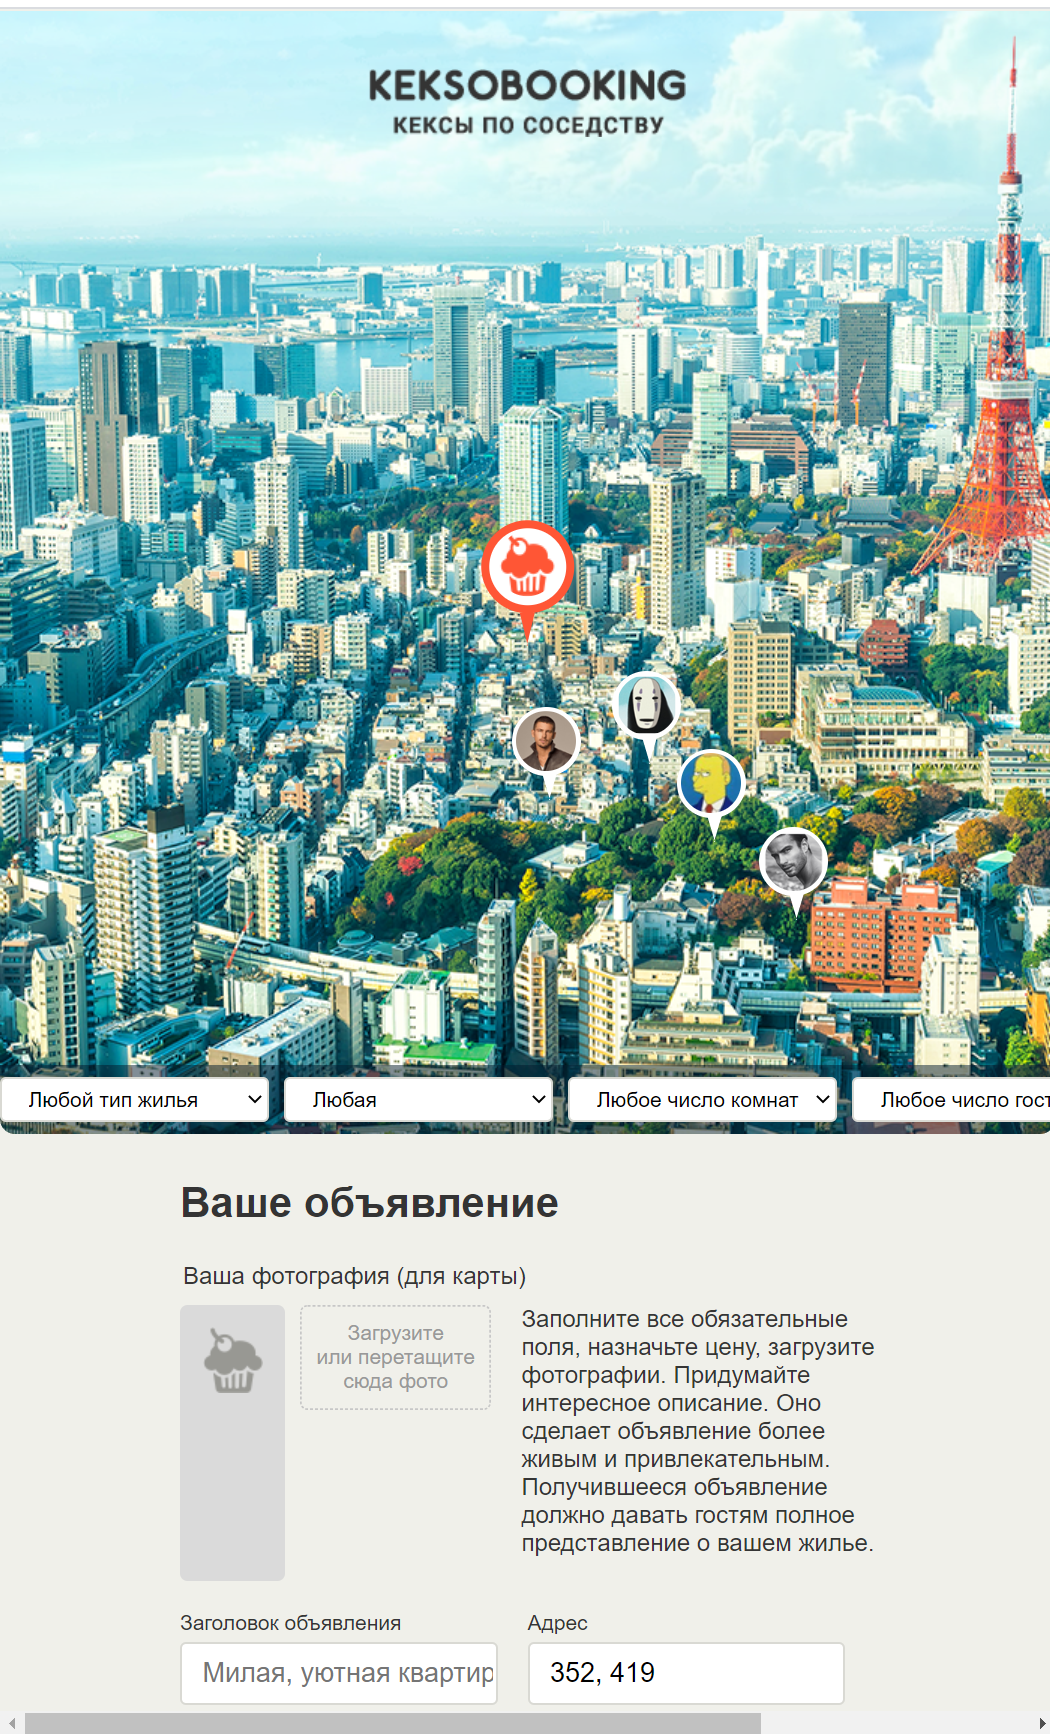
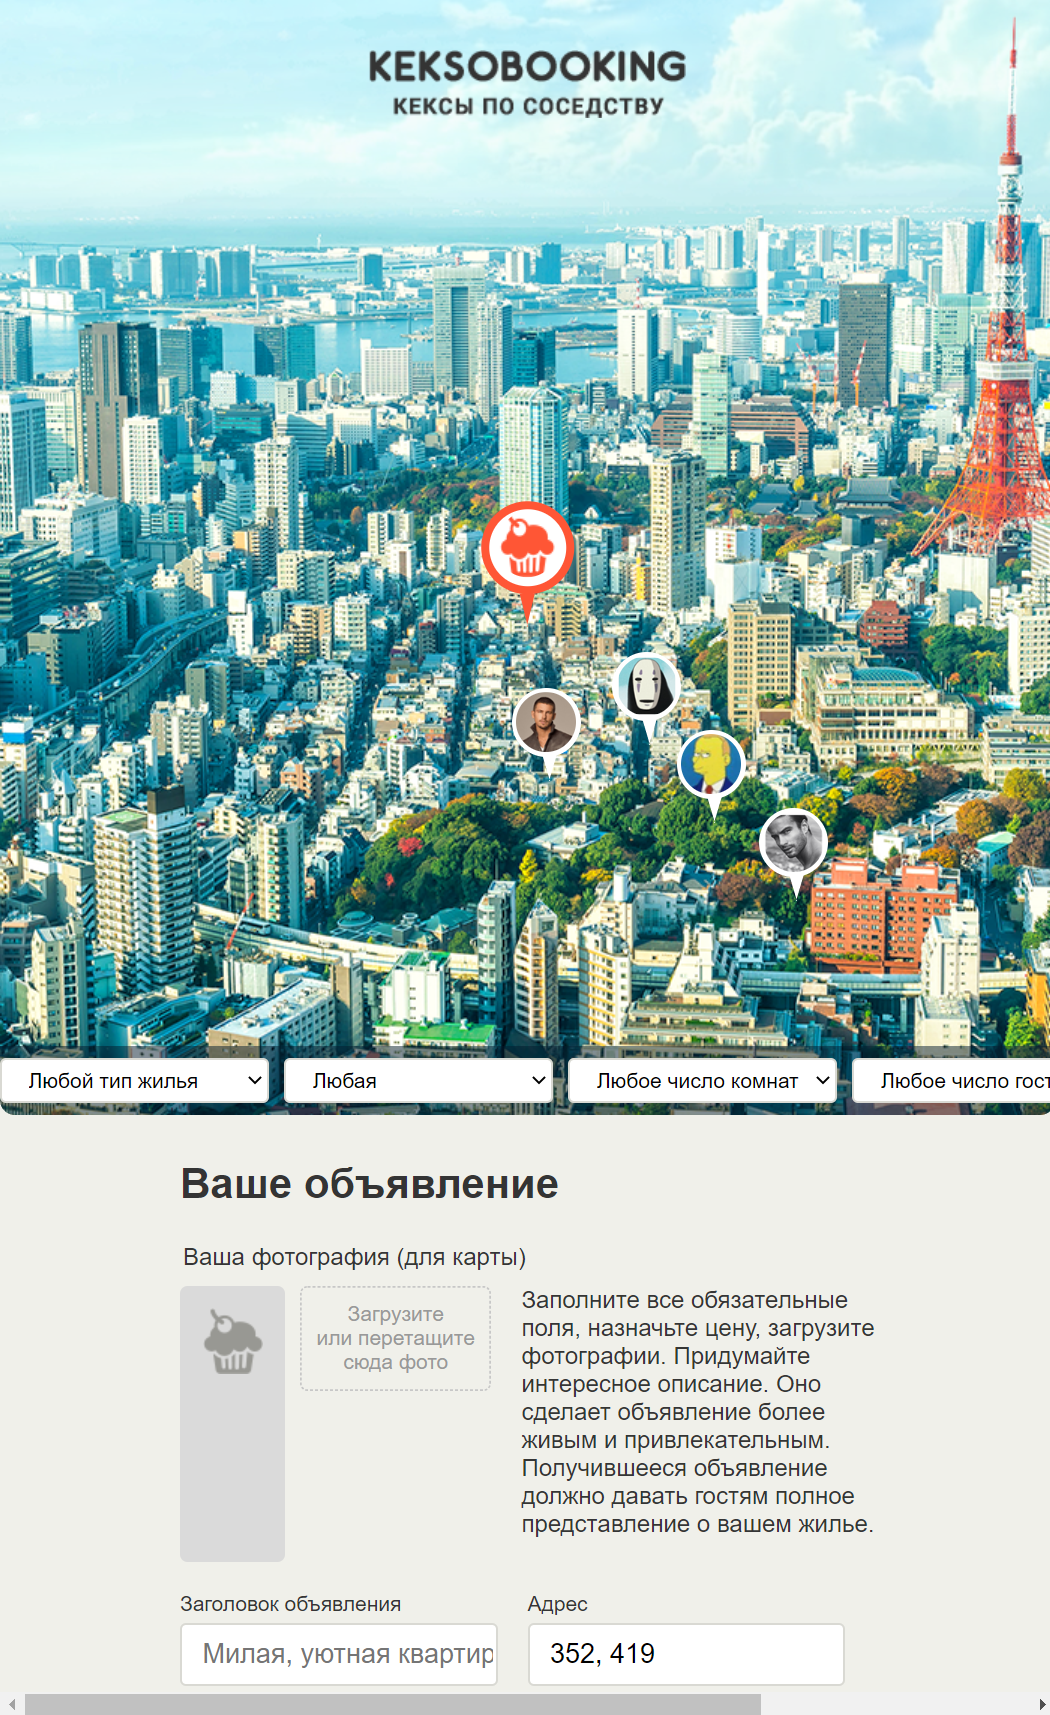
обновил информацию

diff --git a/source/js/template.js b/source/js/template.js
@@ -2,81 +2,73 @@
 
 const cardData = [
   {
-    imgSrc: "img/sis-cities.png",
+    imgSrc: "img/sis-cities.webp",
     imgAlt: "sis-cities",
     title: "Sis cities",
     link: "https://grigoriy-golovin.github.io/six-cities",
     linkCode: "https://github.com/grigoriy-golovin/six-cities",
-    description: `Single Page Application выполненное на базе React. Современный сервис
-     для путешественников, которые не хотят переплачивать за аренду жилья.
-     В приложении можно получить актуальный
-      список предложений по аренде в одном из шести популярных городов.
-      Сортировка объектов и подробное
-       описание каждого из них помогут быстро
-       выбрать оптимальный вариант жилья.
-       Авторизованные пользователи могут
-        оставить отзыв и добавить приложение в избранное.`,
+    description: `Учебный проект на React. Сервис по поиску объявлений аренды жилья.
+    Мною выполнен только JS, верстка была предоставлена.`,
     techno: `React, Jest, Enzyme, Axios, React Router, Redux, Thunk, Reselect`,
   },
   {
-    imgSrc: "img/pixiel-hanter.png",
+    imgSrc: "img/pixiel-hanter.webp",
     imgAlt: "pixiel-hanter",
     title: "Pixiel hanter",
     link: "https://grigoriy-golovin.github.io/pixel-hunter",
     linkCode: "https://github.com/grigoriy-golovin/pixel-hunter",
 
-    description: `Сайт - игра, в которой надо угадывать что тебе сейчас
+    description: `Сайт - игра, в которой надо угадывать что
     показывают: фотография или рисунок?
     Игра написана javaScript версии ECMAScript 2015+
-     без использования framework по паттерну MVP`,
+     без использования framework по паттерну MVP
+     Мною выполнен только JS, верстка была предоставлена.`,
     techno: "ECMAScript 2015+, OOP, Promise, Fetch API",
   },
   {
-    imgSrc: "img/keksobooking.png",
+    imgSrc: "img/keksobooking.webp",
     imgAlt: "Keksbooking",
     title: "Keksbooking",
     link: "https://grigoriy-golovin.github.io/Keksbooking",
     linkCode: "https://github.com/grigoriy-golovin/booking",
-    description: `Сервис размещения объявлений об аренде
-     недвижимости в Токио. Пользователи делятся информацией
-     о своём объекте недвижимости, размещают фотографии, указывают
-     адрес, перемещая метку по карте города. Кроме этого, можно
-      посмотреть на объявления,
-     размещённые другими пользователями.`,
+    description: `Учебный проект на ECMAScript 5.
+     Сервис размещения объявлений об аренде
+     недвижимости в Токио.
+     Мною выполнен только JS, верстка была предоставлена.`,
     techno: "DOM API, XMLHttpRequest, FormData",
   },
   {
-    imgSrc: "img/culture-news.png",
+    imgSrc: "img/culture-news.webp",
     imgAlt: "culture-news",
     title: "Culture news",
     link: "https://grigoriy-golovin.github.io/culture-news",
     linkCode: "https://github.com/grigoriy-golovin/culture-news",
-    description: `Вёрстка сайта с новостями культуры.
-    Реализованна адаптивная и резиновая вёрстка с помощью Grid layout.`,
+    description: `Учебная вёрстка главной страницы сайта с новостями культуры.
+    Реализованна адаптивная и резиновая вёрстка с помощью Grid layout.
+     На JS реализованны только слайдеры, выпадающее меню и заполнение контента в template.`,
     techno: "Less, Gulp, Flex, Picture, БЭМ, Node.js",
   },
   {
-    imgSrc: "img/pink.png",
+    imgSrc: "img/pink.webp",
     imgAlt: "pink",
     title: "Pink",
     link: "https://grigoriy-golovin.github.io/pink",
     linkCode: "https://github.com/grigoriy-golovin/pink",
-    description: `Вёрстка сайта о приложении Pink.
-     Это приложение позволит раскрасить серые будни в яркие
-     краски буквально в один клик.
+    description: `Учебная вёрстка сайта о приложении Pink.
      Вёрстка выполнена адоптивно с фиксированной сеткой
-     на три размера экрана на препроцессоре Less, сборка и оптимизация
-     выполнены с помощью Gulp.`,
+     на три размера экрана с использованием препроцессоре Less, сборка и оптимизация
+     выполнены с помощью Gulp. На JS реализованны только слайдеры и выпадающее меню.`,
     techno: "Less, Gulp, Flex, Picture, SVG-спрайт, WebP, БЭМ, Node.js",
   },
   {
-    imgSrc: "img/light.png",
+    imgSrc: "img/light.webp",
     imgAlt: "light",
     title: "Light",
     link: "https://grigoriy-golovin.github.io/light",
     linkCode: "https://github.com/grigoriy-golovin/trialWork",
-    description: `Простая вёрстка главной страницы сайта компании
-     по продаже светового оборудования.`,
+    description: `Моя первая учебная вёрстка. Выполнена одна страница сайта компании
+     по продаже светового оборудования.
+     Без реализации динамических элементов интерфейса на JS.`,
     techno: "HTML, CSS, Flex",
   },
 ];
@@ -98,7 +90,12 @@ const createSlid = function (data, template) {
   slid.querySelector(".card__link--site").href = data.link;
   slid.querySelector(".card__link--code").href = data.linkCode;
 
-  slid.querySelector("img").onclick = () => {
+  slid.querySelector(".card__text").onclick = () => {
+    slid.classList.add(`card--active`);
+    bgBlack.classList.add(`card__bg-black--active`)
+  };
+
+  slid.querySelector(".card__img-wrapper").onclick = () => {
     slid.classList.add(`card--active`);
     bgBlack.classList.add(`card__bg-black--active`)
   };

diff --git a/source/index.html b/source/index.html
@@ -40,7 +40,7 @@
         <h2 class="contacts__title">Григорий Головин</h2>
         <p class="contacts__greeting">
           Здравствуйте, я начинающий Frontend Developer.
-          Мне 29 лет, имею высшее образование и опыт в разработке сайтов.
+          Мне 29 лет, у меня есть высшее образование и опыт в разработке сайтов.
           Хочу начать карьеру с позиции junior developer в современной перспективной компании,
           где будет возможность обучаться на реальных проектах и перенимать опыт у коллег.
         </p>
@@ -149,9 +149,9 @@
         <li>[HTML Academy] Профессиональный HTML и CSS, уровень 1</li>
         <li>[HTML Academy] Профессиональный HTML и CSS, уровень 2</li>
 
-        <li>[HTML Academy] Профессиональный онлайн курс JavaScript, уровень 1</li>
-        <li>[HTML Academy] Профессиональный онлайн курс JavaScript, уровень 2</li>
-        <li>[HTML Academy] Профессиональный онлайн курс JavaScript, уровень 3</li>
+        <li>[HTML Academy] Профессиональный JavaScript, уровень 1</li>
+        <li>[HTML Academy] Профессиональный JavaScript, уровень 2</li>
+        <li>[HTML Academy] Профессиональный JavaScript, уровень 3</li>
 
       </ul>
 

diff --git a/source/less/blocks/card.less b/source/less/blocks/card.less
@@ -66,10 +66,21 @@
   background-color: @lightgrey;
 }
 
-.card__text,
+
 .card__but-close {
   display: none;
 }
+
+.card__text {
+  font-size: 0.9;
+  display: block;
+  padding: 10px;
+  height: 170px;
+  overflow: hidden;
+  overflow-y: auto;
+}
+
+
 
 .card--active {
   z-index: 10;

diff --git a/source/less/scaffolding.less b/source/less/scaffolding.less
@@ -6,6 +6,10 @@
 //       format("woff2")
 // }
 
+html {
+  scroll-behavior: smooth;
+}
+
 body {
   min-width: 320px;
   margin: 0;
@@ -31,6 +35,8 @@ body {
 
 main {
   padding: 0 10px;
+  max-width: 1500px;
+  margin: 0 auto;
 }
 
 @media (min-width: @tablet-width) {

diff --git a/source/less/variables.less b/source/less/variables.less
@@ -1,7 +1,7 @@
 @white: #FFFFFF;
 @black: #1a2f04;
 @darkgreen: #b3eb31;
-@lightgreen: #56ff50;
+@lightgreen: #245222a8;
 @darkgrey: #817d79;
 @lightgrey: #d8d8d8;
 

diff --git a/source/less/blocks/page-header.less b/source/less/blocks/page-header.less
@@ -2,6 +2,8 @@
 	display: flex;
 	flex-direction: column;
 	margin-bottom: 10px;
+	max-width: 1500px;
+  margin: 0 auto;
 }
 
 .page-header__but-menu {
